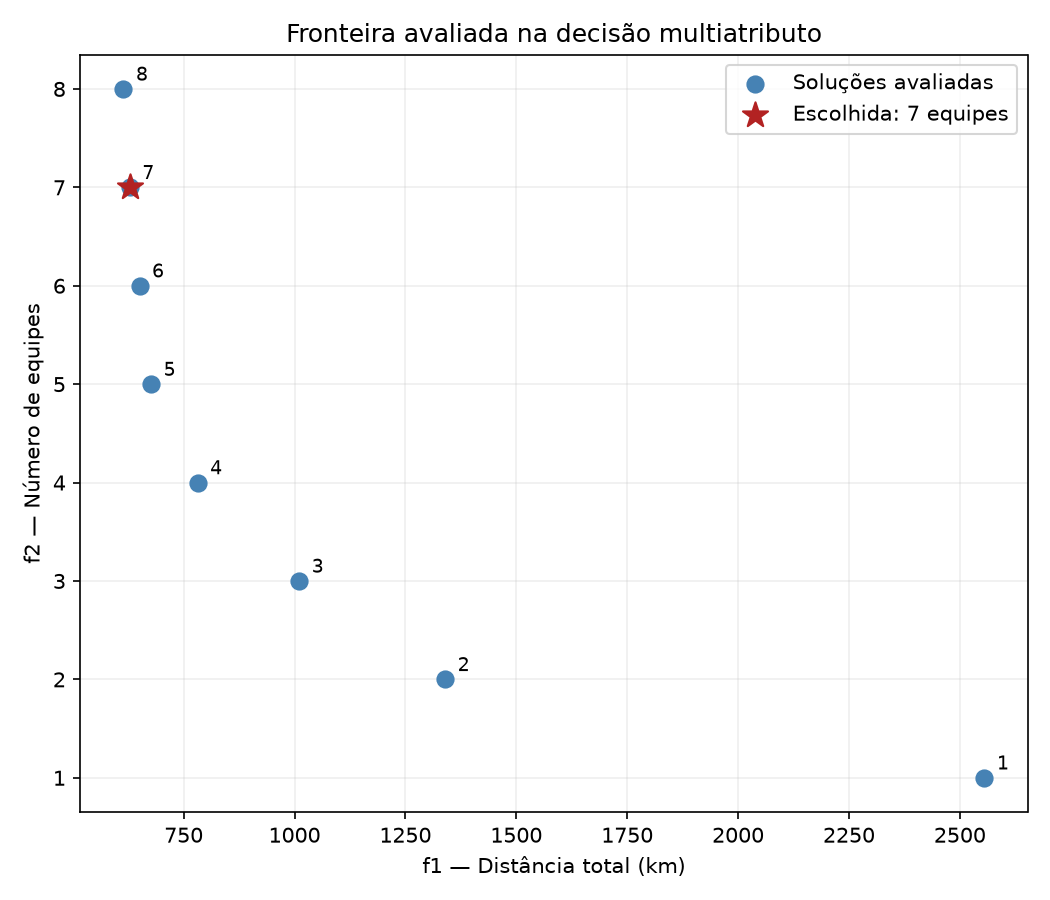
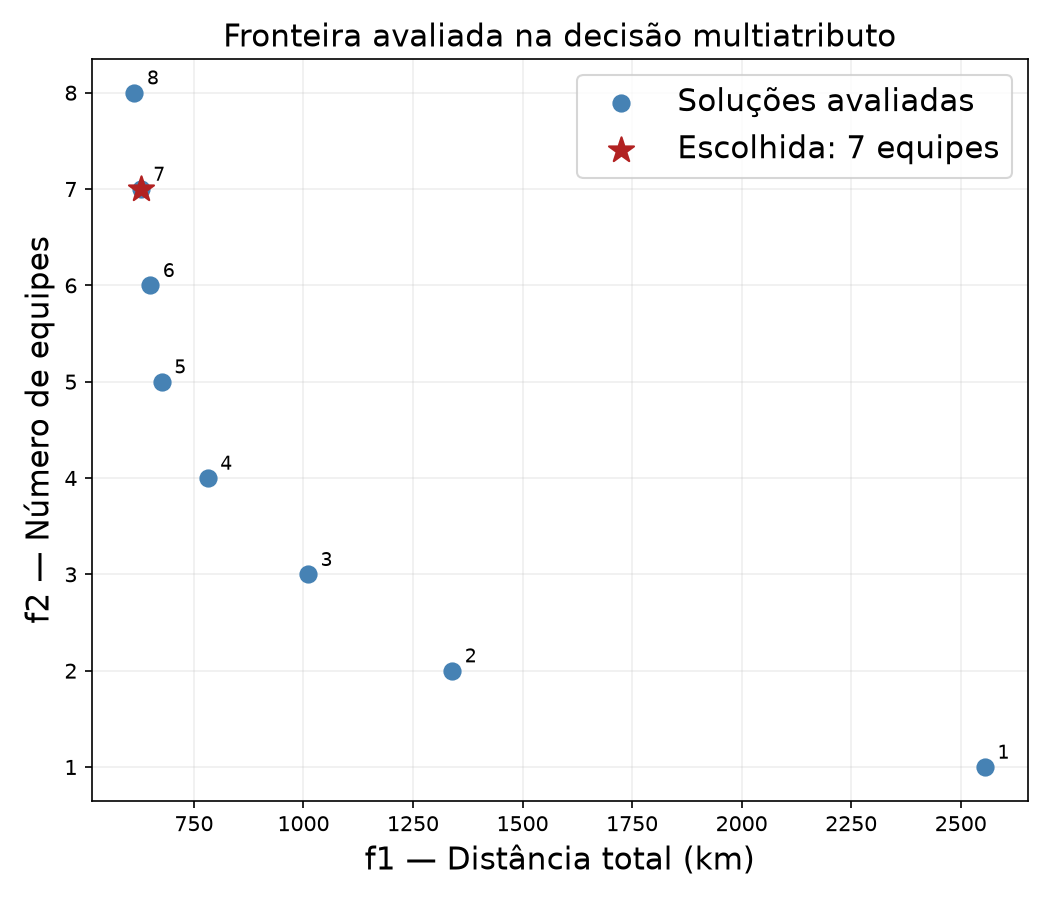
Alterando gráficos

diff --git a/TC - monitoramento de ativos/TC1_modelo/codigos/graficos_indicadores.py b/TC - monitoramento de ativos/TC1_modelo/codigos/graficos_indicadores.py
@@ -45,10 +45,10 @@ def grafico_delta(pasta=None, salvar=True, mostrar=True):
 
     ax.set_xticks(x)
     ax.set_xticklabels(rotulos)
-    ax.set_xlabel("Par de soluções vizinhas (número de equipes)")
-    ax.set_ylabel("Distância euclidiana normalizada")
-    ax.set_title("Indicador Δ: espaçamento real da fronteira vs. ideal uniforme")
-    ax.legend()
+    ax.set_xlabel("Par de soluções vizinhas (número de equipes)", fontsize=15)
+    ax.set_ylabel("Distância euclidiana normalizada", fontsize=15)
+    ax.set_title("Indicador Δ: espaçamento real da fronteira vs. ideal uniforme", fontsize=15)
+    ax.legend(fontsize=15)
     ax.grid(True, alpha=0.2, axis="y")
     plt.tight_layout()
 
@@ -89,10 +89,10 @@ def grafico_hipervolume(pasta=None, salvar=True, mostrar=True):
 
     ax.set_xlim(-0.05, r[0] + 0.05)
     ax.set_ylim(-0.05, r[1] + 0.05)
-    ax.set_xlabel("f1 normalizado (distância)")
-    ax.set_ylabel("f2 normalizado (equipes)")
-    ax.set_title(f"Área dominada (Hipervolume ≈ {hv_total:.4f})")
-    ax.legend(loc="upper right")
+    ax.set_xlabel("f1 normalizado (distância)", fontsize=15)
+    ax.set_ylabel("f2 normalizado (equipes)", fontsize=15)
+    ax.set_title(f"Área dominada (Hipervolume ≈ {hv_total:.4f})", fontsize=15)
+    ax.legend(loc="lower left", fontsize=15)
     ax.grid(True, alpha=0.2)
     plt.tight_layout()
 

diff --git a/TC - monitoramento de ativos/TC1_modelo/codigos/grafico_02.py b/TC - monitoramento de ativos/TC1_modelo/codigos/grafico_02.py
@@ -60,9 +60,9 @@ def plotar_atribuicao(eps_escolhido, pasta=None, salvar=True, mostrar=True):
                markersize=9, label="Ativos"),
     ]
     ax.legend(handles=legenda, loc="best")
-    ax.set_xlabel("Longitude")
-    ax.set_ylabel("Latitude")
-    ax.set_title(f"Atribuição de ativos às bases ({eps_escolhido} equipes)")
+    ax.set_xlabel("Longitude", fontsize=20)
+    ax.set_ylabel("Latitude", fontsize=20)
+    ax.set_title(f"Atribuição de ativos às bases ({eps_escolhido} equipes)", fontsize=20)
     ax.grid(True, alpha=0.2)
     plt.tight_layout()
 
@@ -75,4 +75,4 @@ def plotar_atribuicao(eps_escolhido, pasta=None, salvar=True, mostrar=True):
 
 
 if __name__ == "__main__":
-    plotar_atribuicao(eps_escolhido=3)
+    plotar_atribuicao(eps_escolhido=7)

diff --git a/TC - monitoramento de ativos/TC1_modelo/codigos/decisao.py b/TC - monitoramento de ativos/TC1_modelo/codigos/decisao.py
@@ -187,10 +187,10 @@ if __name__ == "__main__":
     for _, row in df.iterrows():
         ax.annotate(f"{int(row['eps'])}", (row["f1"], row["f2"]),
                     textcoords="offset points", xytext=(6, 4), fontsize=9)
-    ax.set_xlabel("f1 — Distância total (km)")
-    ax.set_ylabel("f2 — Número de equipes")
-    ax.set_title("Fronteira avaliada na decisão multiatributo")
-    ax.legend()
+    ax.set_xlabel("f1 — Distância total (km)", fontsize=15)
+    ax.set_ylabel("f2 — Número de equipes", fontsize=15)
+    ax.set_title("Fronteira avaliada na decisão multiatributo", fontsize=15)
+    ax.legend(fontsize=15)
     ax.grid(True, alpha=0.2)
     plt.tight_layout()
     plt.savefig(pasta / "decisao_fronteira.png", dpi=150)

diff --git a/TC - monitoramento de ativos/TC1_modelo/codigos/graficos.py b/TC - monitoramento de ativos/TC1_modelo/codigos/graficos.py
@@ -20,14 +20,15 @@ if __name__ == "__main__":
         ax=ax,
         marker='o',
         color='blue',
+        s=60
         #label='Soluções'
     )
 
-    ax.set_xlabel('Distancia')
-    ax.set_ylabel('Equipes empregadas')
-    ax.set_title('Fronteira de Pareto')
+    ax.set_xlabel('Distancia', fontsize=20)
+    ax.set_ylabel('Equipes empregadas', fontsize=20)
+    ax.set_title('Fronteira de Pareto', fontsize=20)
     ax.grid(True, alpha=0.3)
-    ax.legend()
+    ax.legend(fontsize=15)
 
     plt.tight_layout()
     plt.show()
